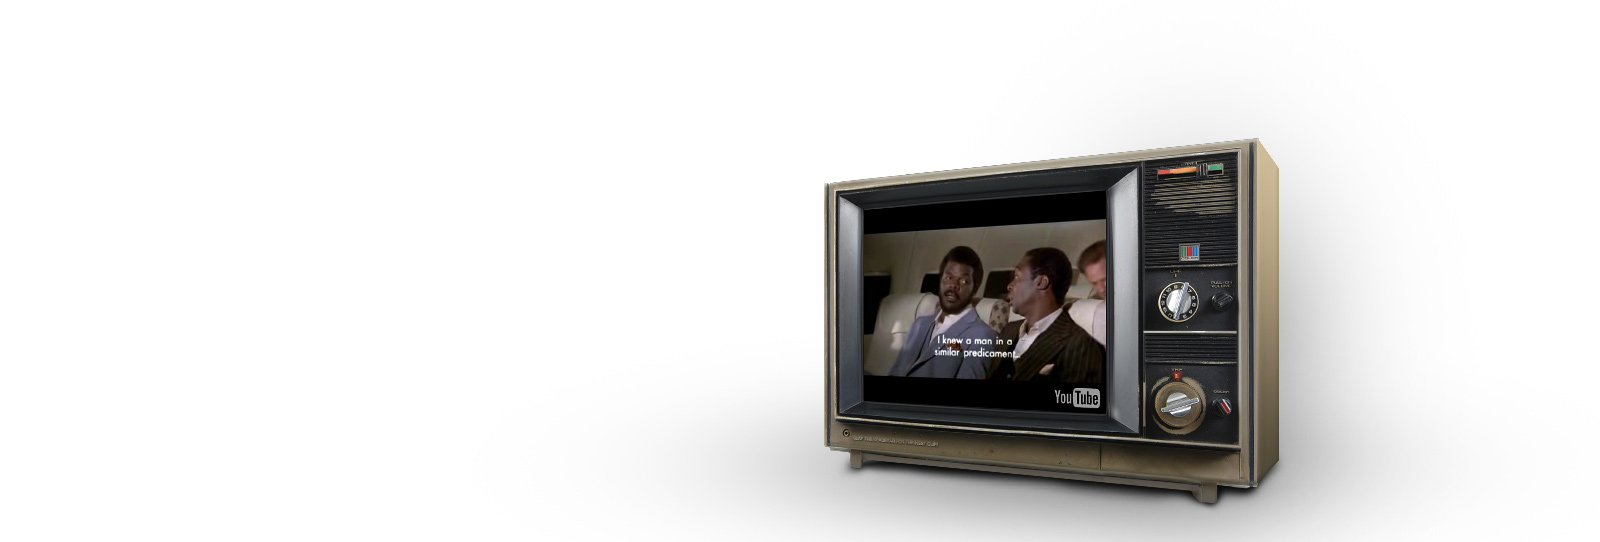
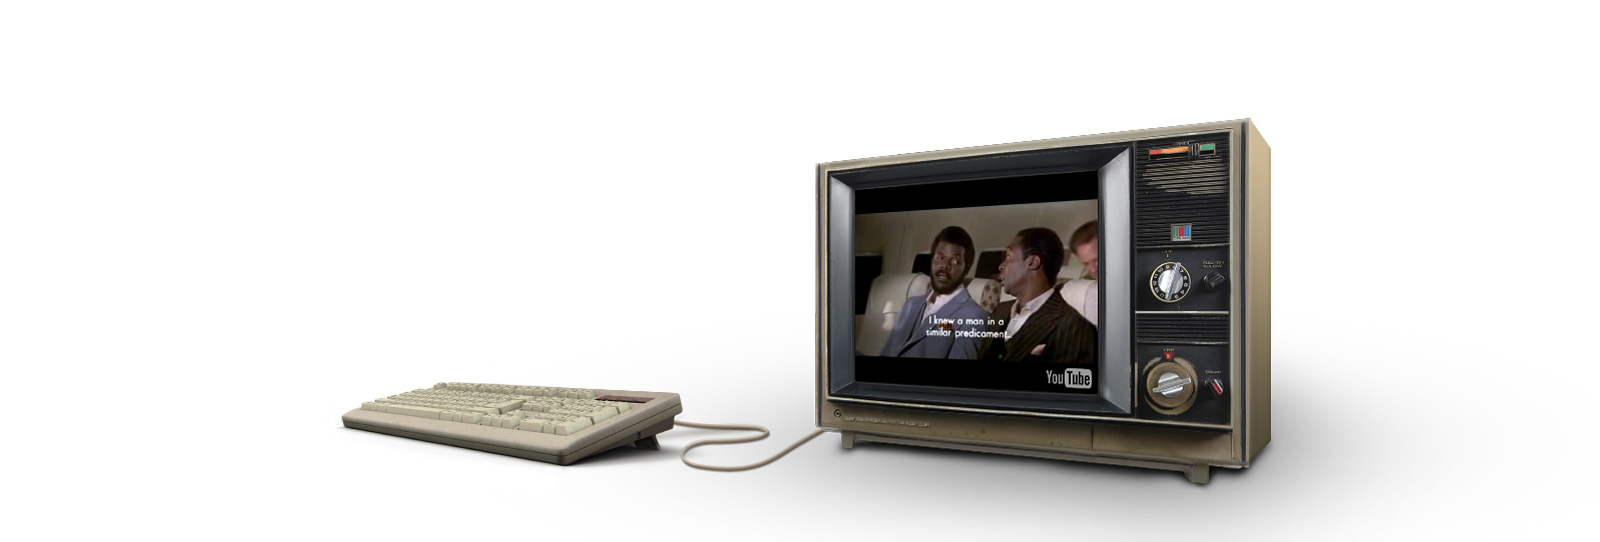
mainImage - added keyboard, and new project description

Changed region(s): [[0.1875, 0.2066, 0.8438, 0.9446]]

diff --git a/upl8tv/index.html b/upl8tv/index.html
@@ -29,18 +29,10 @@
 		}
 
 		#containerUPL8 {
-			margin-top: -158px;
+			margin-top: -169px;
 		}
 
-		#cigar {
-			overflow: hidden;
-			position: absolute;
-			right: 0px;
-			top: 0px;
-			z-index: 3;
-		}
-
-		#headerCW {
+		#headerUPL8 {
 	    	margin:0 auto; 
 	    	width: 100%;
 			font-size: 55pt;
@@ -49,11 +41,11 @@
 			line-height: 95%;
 			letter-spacing: -2px;
 			position: relative;
-			top: -360px;
+			top: -460px;
 		}
 
 		.heartSK {
-			margin-top: 8px;
+			margin-top: 20px;
 		}
 
 		.bigBorderUPL8tv {
@@ -63,6 +55,10 @@
 			margin-bottom: 10px;
 		}
 
+		#smallText {
+			font-size: 75%;
+		}
+
 	    @media only screen and (min-width: 768px) and (max-width: 959px) {
 	    	
 			#mainImage {
@@ -70,12 +66,8 @@
 				height: 430px;
 			}
 
-			#containerCW {
+			#containerUPL8 {
 				margin-top: -190px;
-			}
-
-			#cigar {
-				display: none;
 			}
 
 			#headerCW {
@@ -103,12 +95,8 @@
 				height: 180px;
 			}
 
-			#containerCW {
+			#containerUPL8 {
 				margin-top: -115px;
-			}
-
-			#cigar {
-				display: none;
 			}
 						
 			#headerCW {
@@ -133,10 +121,6 @@
 			#mainImage {
 				background: #fff url('../upl8tv/images/mainImage3.jpg') top center;
 				height: 270px;
-			}
-
-			#cigar {
-				display: none;
 			}
 
 			#headerCW {
@@ -264,8 +248,8 @@
 
   <div id="container" class="container">
 
-		<div id="headerCW">
-				<a href="#">UPL8</a>.tv<br />
+		<div id="headerUPL8">
+				Kill your <span class="orange">TV</span>.<br />
 				<img src="../images/pokeHeart_transparent.png" alt="pokeHeart_transparent" class="heartSK" />
 		</div>
 
@@ -284,7 +268,11 @@
 					<a rel="gallery" title="UPL8.TV" href="images/large/gallery1.jpg"><img class="largeFrameOverlaySK" src="../images/overlayLargeSK.png"></a>	
 				</div>
 
-			<p class="tucked"><br /><strong>A rich history, looking forward</strong><br />As one of the world's largest and most prestigious cigar manufacturers, the General Cigar Company's web presence <a href="http://www.cigarworld.com/">CigarWorld.com</a> presented exciting opportunities for growth. At POKE New York, we realized that transforming the site into a comprehensive resource and community for cigar connoisseurs and newbies alike, would turn newbies into connoisseurs, and grow the business by acquiring more of them along the way.</p>
+			<p class="tucked"><br /><strong>Bored?</strong><br />What ever happened to the days of sitting on the couch…at 3am…in your underwear…tapping the remote? Next.  Next.  Next. After midnight, television was the endless stream of filmic oddities seemingly there just to entertain YOU. Channel after channel. Matlock after Ron Popeil after B.A Baracus…<br /><br />
+
+			Meet <a href="http://www.upl8.tv">UPL8.tv</a>. Launched in June of 2008 to quench our desire for curious content, <a href="http://www.upl8.tv">UPL8.tv</a> is a place where we bookmark the weirdest time wasters we can find - and share them with the world.<br /><br />
+
+			Just hit the space bar! By pressing their spacebar, users can flip through an endless selection of YouTube weirdness. Just like your Dad did. Fuck.</p>
 		</div>	   
 
     	<div class="sixteen columns alpha omega"><img src="../images/divider.png" alt="divider" class="dividerSK" /></div> 
@@ -294,7 +282,7 @@
 			
 			<div class="press two-thirds column alpha firstPress">
 				<div class="three columns alpha">
-					<a href="http://www.notcot.org/post/13071">
+					<a href="http://www.notcot.org/post/13071" target="_blank">
 						<img src="images/logo_notcot.png" alt="logo_notcot" width="140" height="28" />
 					</a></div>
 				<div class="seven columns omega"><span class="quote">Bored? Stoned? Insomniac? Try UPL8.tv!</span>&nbsp;&ndash;&nbsp;<a href="http://www.notcot.org/post/13071" class="source" target="_blank">notcot.org</a></div>
@@ -302,7 +290,7 @@
 			
 			<div class="press two-thirds column alpha firstPress">
 				<div class="three columns alpha">
-					<a href="http://www.reelmotioninc.com/blog/how-to-waste-15-minutes/">
+					<a href="http://www.reelmotioninc.com/blog/how-to-waste-15-minutes/" target="_blank">
 						<img src="images/logo_reelmotion.png" alt="logo_reelmotion" width="140" height="16" />
 					</a></div>
 				<div class="seven columns omega"><span class="quote">Up Late TV is a surprisingly addictive playback of random Youtube clips. And I do mean random. As in Ronald McDonald falling off a park bench set to a Japanese techno song. Or a segment on how they make crayolas. It will draw you in. It will waste your time. It will be worth it.</span>&nbsp;&ndash;&nbsp;<a href="http://www.reelmotioninc.com/blog/how-to-waste-15-minutes/" class="source" target="_blank">SourceName.com</a></div>
@@ -310,7 +298,7 @@
 
 			<div class="press two-thirds column alpha firstPress">
 				<div class="three columns alpha">
-					<a href="http://www.crackunit.com/2008/06/30/upl8tv-from-poke-ny/">
+					<a href="http://www.crackunit.com/2008/06/30/upl8tv-from-poke-ny/" target="_blank">
 						<img src="images/logo_crackunit.png" alt="logo_crackunit" width="140" height="18" />
 					</a></div>
 				<div class="seven columns omega"><span class="quote">The chaps at Poke NY have just spawned a new thing of total awesomeness. Basically it’s a YouTube viewer that allows you to browse YouTube clips using just the space bar.</span>&nbsp;&ndash;&nbsp;<a href="http://www.crackunit.com/2008/06/30/upl8tv-from-poke-ny/" class="source" target="_blank">crackunit.com</a></div>
@@ -318,7 +306,7 @@
 
 			<div class="press two-thirds column alpha firstPress">
 				<div class="three columns alpha">
-					<a href="http://barbariangroup.com/posts/666-bored_stoned_insomniac_upl8_tv">
+					<a href="http://barbariangroup.com/posts/666-bored_stoned_insomniac_upl8_tv" target="_blank">
 						<img src="images/logo_barbarian.png" alt="logo_barbarian" width="140" height="18" />
 					</a></div>
 				<div class="seven columns omega"><span class="quote">It’s a pretty simple idea: A whole bunch of oddly mesmerizing YouTube videos that play one after the other (you can skip to the next one at any time by pressing space). Watch out, though, because you’ll look up and realize it’s a half hour later.</span>&nbsp;&ndash;&nbsp;<a href="http://barbariangroup.com/posts/666-bored_stoned_insomniac_upl8_tv" class="source" target="_blank">barbariangroup.com</a></div>
@@ -326,7 +314,7 @@
 			
 			<div class="press two-thirds column alpha firstPress">
 				<div class="three columns alpha">
-					<a href="http://singlefunction.com/upl8tv/">
+					<a href="http://singlefunction.com/upl8tv/" target="_blank">
 						<img src="images/logo_singlefunction.png" alt="logo_singlefunction" width="140" height="35" />
 					</a></div>
 				<div class="seven columns omega"><span class="quote">Upl8.tv is a simple interface for viewing YouTube videos that hearkens back to the days of yore when you could sit on the sofa at 2am and channel surf through a mindless selection of content.</span>&nbsp;&ndash;&nbsp;<a href="http://singlefunction.com/upl8tv/" class="source" target="_blank">singlefunction.com</a></div>
@@ -334,7 +322,7 @@
 			
 			<div class="press two-thirds column alpha firstPress">
 				<div class="three columns alpha">
-					<a href="http://edopter.com/">
+					<a href="http://edopter.com/" target="_blank">
 						<img src="images/logo_edopter.png" alt="logo_edopter" width="140" height="44" />
 					</a></div>
 				<div class="seven columns omega"><span class="quote">UPL8.tv takes the now lost act of 'channel flipping' and applies it to Youtube snippets. Just slap the spacebar for another dose of internet awesome.</span>&nbsp;&ndash;&nbsp;<a href="http:/edopter.com/" class="source" target="_blank">edopter.com</a></div>
@@ -342,7 +330,7 @@
 		
 			<div class="press two-thirds column alpha firstPress">
 				<div class="three columns alpha">
-					<a href="http://adivertido.com/upl8-tv/">
+					<a href="http://adivertido.com/upl8-tv/" target="_blank">
 						<img src="images/logo_adivertido.png" alt="logo_adivertido" width="140" height="18" />
 					</a></div>
 				<div class="seven columns omega"><span class="quote">Upl8 TV talvez seja a plataforma mais inteligente que utiliza a mesma API do Youtube. </span>&nbsp;&ndash;&nbsp;<a href="http://adivertido.com/upl8-tv/" class="source" target="_blank">adivertido.com</a></div>
